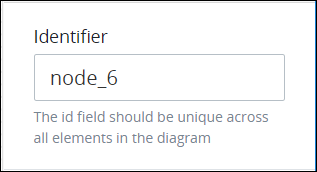
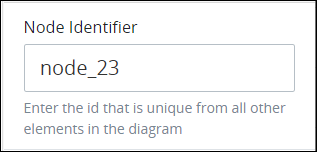
GitBook: [processmaker] 2 pages and 2 assets modified

diff --git a/designing-processes/process-design/model-your-process/add-and-configure-inclusive-gateway-elements.md b/designing-processes/process-design/model-your-process/add-and-configure-inclusive-gateway-elements.md
@@ -60,11 +60,40 @@ See the [Process](../../../processmaker-administration/permission-descriptions-f
 The Inclusive Gateway element has the following panels that contain settings:
 
 * **Configuration** panel
-  * Edit the element name
+  * [Edit the element name](add-and-configure-inclusive-gateway-elements.md#edit-the-element-name)
+  * [Indicate workflow direction](add-and-configure-inclusive-gateway-elements.md#indicate-workflow-direction)
 * **Advanced** panel
-  * Edit the element's identifier value
+  * [Edit the element's identifier value](add-and-configure-inclusive-gateway-elements.md#edit-the-elements-identifier-value)
 
-### Edit the Element's Identifier Value
+### Configuration Panel Settings
+
+#### Edit the Element Name
+
+An element name is a human-readable reference for a Process element. Process Modeler automatically assigns the name of a Process element with its element type. However, an element's name can be changed.
+
+Follow these steps to edit the name for an Inclusive Gateway element:
+
+1. Ensure that the **Hide Menus** button![](../../../.gitbook/assets/hide-menus-button-process-modeler-processes.png)is not enabled. See [Maximize the Process Modeler Canvas View](../navigate-around-your-process-model.md#maximize-the-process-modeler-canvas-view).
+2. Select the Inclusive Gateway element from the Process model in which to edit its name. Panels to configure this element display.
+3. Expand the **Configuration** panel if it is not presently expanded. The **Name** setting displays. ![](../../../.gitbook/assets/inclusive-gateway-configuration-name-process-modeler-processes.png)
+4. In the **Name** setting, edit the selected element's name and then press **Enter**. The element's name is changed.
+
+#### Indicate Workflow Direction
+
+Indicate if the workflow direction for the Inclusive Gateway is converging or diverging:
+
+* **Converging workflow \(synchronize workflow\):** An Inclusive Gateway element may synchronize [Request](../../../using-processmaker/requests/what-is-a-request.md) workflow from two or more incoming [Sequence Flow](process-modeling-element-descriptions.md#sequence-flow) elements to the Inclusive Gateway element. All incoming Sequence Flow elements converging to the Inclusive Gateway element must trigger before the Inclusive Gateway element triggers, thereby synchronizing a Request's workflow. Use this coordinate workflow. ![](../../../.gitbook/assets/converging-inclusive-gateway.png) 
+* **Diverging workflow \(evaluate routing conditions\):** An Inclusive Gateway element may also evaluate a Request's workflow routing conditions for a Process. These routing conditions are configured on each outgoing [Sequence Flow](process-modeling-element-descriptions.md#sequence-flow) element from the Inclusive Gateway element. When a Request is in progress and the Inclusive Gateway element triggers, each of its outgoing Sequence Flow elements' conditions are evaluated to determine which Sequence Flow element\(s\) continue routing for that Request. Unlike the [Exclusive Gateway](process-modeling-element-descriptions.md#exclusive-gateway) element, multiple Sequence Flow elements can trigger from the Inclusive Gateway element, thereby causing multiple workflow routes simultaneously for the same Request that stem from that Inclusive Gateway element. Use an Inclusive Gateway element when you potentially want multiple workflow routes to occur simultaneously in that Request. Otherwise, consider using an Exclusive Gateway element to allow only one Sequence Flow element's condition\(s\) to continue workflow route for that Request. ![](../../../.gitbook/assets/diverging-inclusive-gateway.png) 
+
+One Inclusive Gateway element can only converge or diverge workflow, but not both. Use two Inclusive Gateway elements to both converge and diverge workflow.
+
+![Use two Inclusive Gateway elements for both converging and diverging workflow](../../../.gitbook/assets/converging-and-diverging-inclusive-gateway.png)
+
+
+
+### Advanced Panel Settings
+
+#### Edit the Element's Identifier Value
 
 Process Modeler automatically assigns a unique value to each Process element added to a Process model. However, an element's identifier value can be changed if it is unique to all other elements in the Process model, including the Process model's identifier value.
 
@@ -74,25 +103,10 @@ All identifier values for all elements in the Process model must be unique.
 
 Follow these steps to edit the identifier value for an Inclusive Gateway element:
 
-1. Select the Inclusive Gateway element from the Process model in which to edit its identifier value. The **Configuration** setting section displays.
-2. Expand the **Configuration** setting section if it is not presently expanded. The **Identifier** field displays. This is a required field.  
-
-   ![](../../../.gitbook/assets/inclusive-gateway-configuration-identifier-process-modeler-processes.png)
-
-3. In the **Identifier** field, edit the Inclusive Gateway element's identifier to a unique value from all elements in the Process model and then press **Enter**. The element's identifier value is changed.
-
-### Edit the Element Name
-
-An element name is a human-readable reference for a Process element. Process Modeler automatically assigns the name of a Process element with its element type. However, an element's name can be changed.
-
-Follow these steps to edit the name for an Inclusive Gateway element:
-
-1. Select the Inclusive Gateway element from the Process model in which to edit its name. The **Configuration** setting section displays.
-2. Expand the **Configuration** setting section if it is not presently expanded. The **Name** field displays.  
-
-   ![](../../../.gitbook/assets/inclusive-gateway-configuration-name-process-modeler-processes.png)
-
-3. In the **Name** field, edit the selected element's name and then press **Enter**. The element's name is changed.
+1. Ensure that the **Hide Menus** button![](../../../.gitbook/assets/hide-menus-button-process-modeler-processes.png)is not enabled. See [Maximize the Process Modeler Canvas View](../navigate-around-your-process-model.md#maximize-the-process-modeler-canvas-view).
+2. Select the Inclusive Gateway element from the Process model in which to edit its identifier value. Panels to configure this element display.
+3. Expand the **Advanced** panel if it is not presently expanded. The **Node Identifier** setting displays. This is a required field. ![](../../../.gitbook/assets/inclusive-gateway-configuration-identifier-process-modeler-processes.png)
+4. In the **Node Identifier** field, edit the Inclusive Gateway element's identifier to a unique value from all elements in the Process model and then press **Enter**. The element's identifier value is changed.
 
 ## Related Topics
 

diff --git a/designing-processes/process-design/model-your-process/process-modeling-element-descriptions.md b/designing-processes/process-design/model-your-process/process-modeling-element-descriptions.md
@@ -264,8 +264,8 @@ See the following topics about Exclusive Gateway elements:
 
 An Inclusive Gateway element functions in two different ways, but not at the same time from the same element:
 
-* **Diverging workflow \(evaluate routing conditions\):** An Inclusive Gateway element evaluates a [Request's](../../../using-processmaker/requests/what-is-a-request.md) workflow routing conditions for a Process. These routing conditions are configured on each outgoing [Sequence Flow](process-modeling-element-descriptions.md#sequence-flow) element from the Inclusive Gateway element. When a Request is in progress and the Inclusive Gateway element triggers, each of its outgoing Sequence Flow elements' conditions are evaluated to determine which Sequence Flow element\(s\) continue routing for that Request. Unlike the [Exclusive Gateway](process-modeling-element-descriptions.md#exclusive-gateway) element, multiple Sequence Flow elements can trigger from the Inclusive Gateway element, thereby causing multiple workflow routes simultaneously for the same Request that stem from that Inclusive Gateway element. Use an Inclusive Gateway element when you potentially want multiple workflow routes to occur simultaneously in that Request. Otherwise, consider using an Exclusive Gateway element to allow only one Sequence Flow element's condition\(s\) to continue workflow route for that Request. ![](../../../.gitbook/assets/diverging-inclusive-gateway.png) 
-* **Converging workflow \(synchronize workflow\):** An Inclusive Gateway element may also synchronize Request workflow from two or more incoming Sequence Flow elements to the Inclusive Gateway element. All incoming Sequence Flow elements converging to the Inclusive Gateway element must trigger before the Inclusive Gateway element triggers, thereby synchronizing a Request's workflow. Use this coordinate workflow. ![](../../../.gitbook/assets/converging-inclusive-gateway.png) 
+* **Converging workflow \(synchronize workflow\):** An Inclusive Gateway element may synchronize [Request](../../../using-processmaker/requests/what-is-a-request.md) workflow from two or more incoming [Sequence Flow](process-modeling-element-descriptions.md#sequence-flow) elements to the Inclusive Gateway element. All incoming Sequence Flow elements converging to the Inclusive Gateway element must trigger before the Inclusive Gateway element triggers, thereby synchronizing a Request's workflow. Use this coordinate workflow. ![](../../../.gitbook/assets/converging-inclusive-gateway.png) 
+* **Diverging workflow \(evaluate routing conditions\):** An Inclusive Gateway element may also evaluate a Request's workflow routing conditions for a Process. These routing conditions are configured on each outgoing [Sequence Flow](process-modeling-element-descriptions.md#sequence-flow) element from the Inclusive Gateway element. When a Request is in progress and the Inclusive Gateway element triggers, each of its outgoing Sequence Flow elements' conditions are evaluated to determine which Sequence Flow element\(s\) continue routing for that Request. Unlike the [Exclusive Gateway](process-modeling-element-descriptions.md#exclusive-gateway) element, multiple Sequence Flow elements can trigger from the Inclusive Gateway element, thereby causing multiple workflow routes simultaneously for the same Request that stem from that Inclusive Gateway element. Use an Inclusive Gateway element when you potentially want multiple workflow routes to occur simultaneously in that Request. Otherwise, consider using an Exclusive Gateway element to allow only one Sequence Flow element's condition\(s\) to continue workflow route for that Request. ![](../../../.gitbook/assets/diverging-inclusive-gateway.png) 
 
 One Inclusive Gateway element can only converge or diverge workflow, but not both. Use two Inclusive Gateway elements to both converge and diverge workflow.
 
